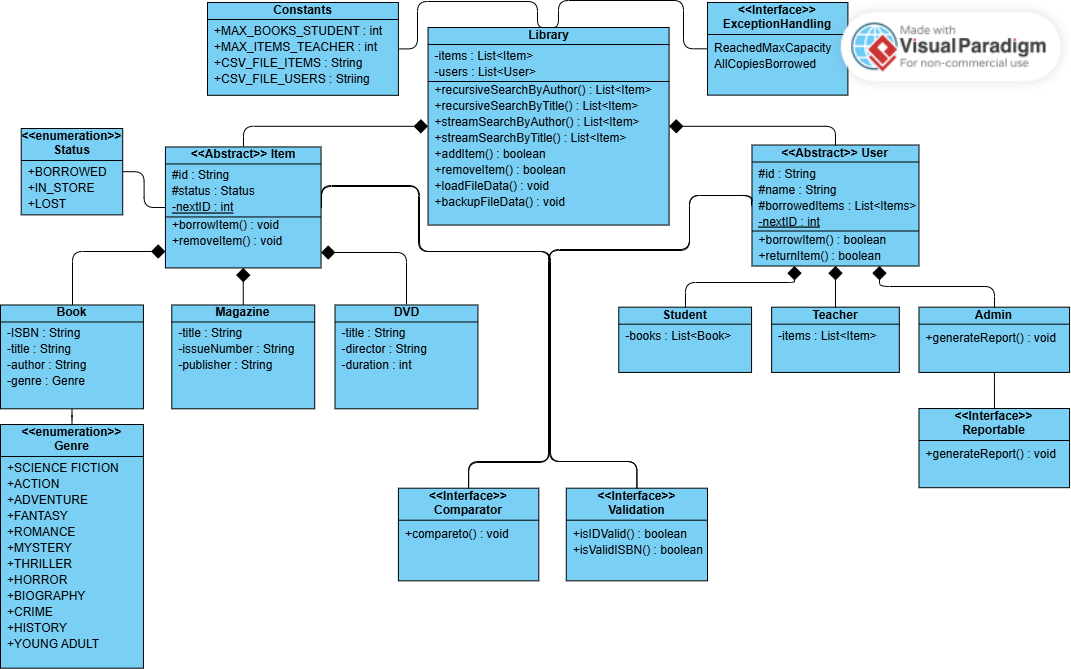
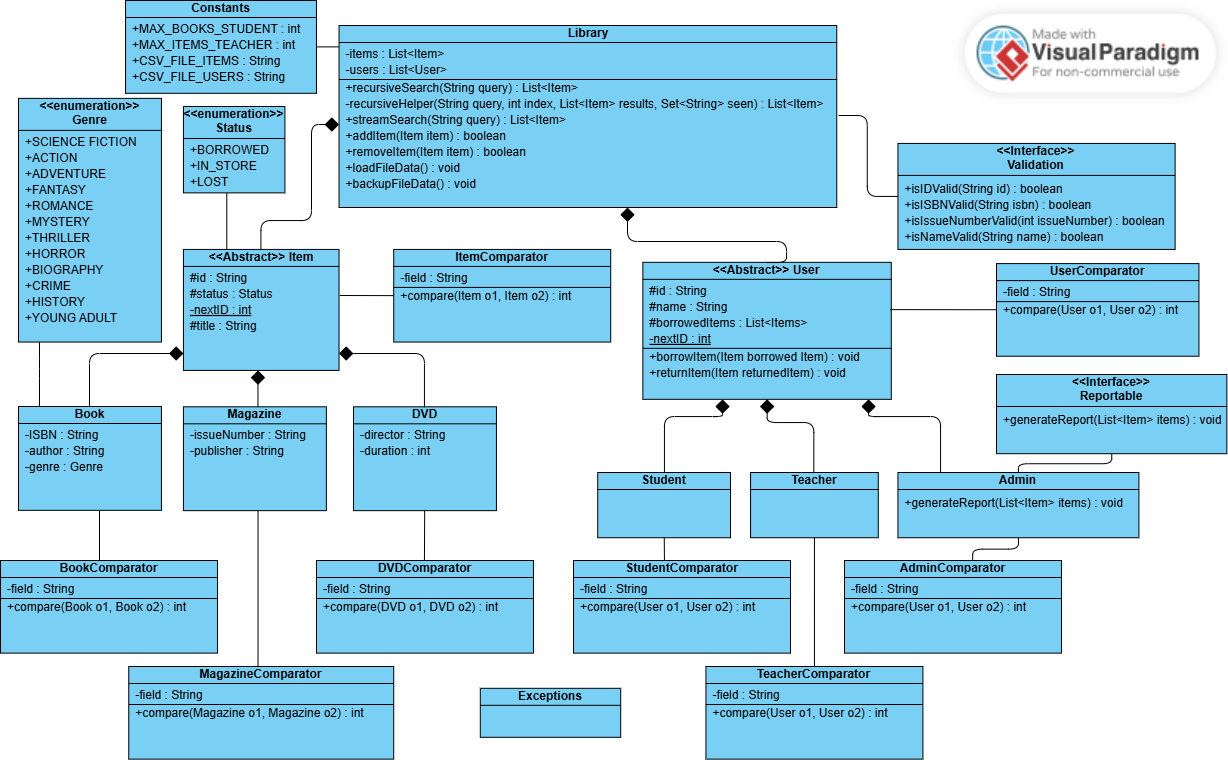
Added JUnit testing for validation, added items to items.csv, added users to users.csv, and updated diagram

diff --git a/src/test/java/ValidationTest.java b/src/test/java/ValidationTest.java
@@ -1,2 +1,87 @@
+import org.example.Validation;
+import org.junit.jupiter.api.DisplayName;
+import org.junit.jupiter.api.Test;
+
+import static org.junit.jupiter.api.Assertions.assertEquals;
+
 public class ValidationTest {
+    @Test
+    @DisplayName("{0000001} -> true")
+    void isIDValid1() {
+        String id = "0000001";
+        boolean actual = Validation.isIDValid(id);
+        boolean expected = true;
+
+        assertEquals(expected,actual);
+    }
+
+    @Test
+    @DisplayName("{null} -> false")
+    void isIDValid2() {
+        String id = null;
+        boolean actual = Validation.isIDValid(id);
+        boolean expected = false;
+
+        assertEquals(expected,actual);
+    }
+
+    @Test
+    @DisplayName("{978-0-306-40615-7} -> true")
+    void isISBNValid1() {
+        String ISBN = "978-0-306-40615-7";
+        boolean actual = Validation.isISBNValid(ISBN);
+        boolean expected = true;
+
+        assertEquals(expected,actual);
+    }
+
+    @Test
+    @DisplayName("{12345} -> false")
+    void isISBNValid2() {
+        String ISBN = "12345";
+        boolean actual = Validation.isISBNValid(ISBN);
+        boolean expected = false;
+
+        assertEquals(expected,actual);
+    }
+
+    @Test
+    @DisplayName("{5} -> true")
+    void isIssueNumberValid1() {
+        int issueNumber = 5;
+        boolean actual = Validation.isIssueNumberValid(issueNumber);
+        boolean expected = true;
+
+        assertEquals(expected,actual);
+    }
+
+    @Test
+    @DisplayName("{-1} -> false")
+    void  isIssueNumberValid2() {
+        int issueNumber = -1;
+        boolean actual = Validation.isIssueNumberValid(issueNumber);
+        boolean expected = false;
+
+        assertEquals(expected,actual);
+    }
+
+    @Test
+    @DisplayName("{Carl} -> true")
+    void  isNameValid1() {
+        String name = "Carl";
+        boolean actual = Validation.isNameValid(name);
+        boolean expected = true;
+
+        assertEquals(expected,actual);
+    }
+
+    @Test
+    @DisplayName("null -> true")
+    void  isNameValid2() {
+        String name = null;
+        boolean actual = Validation.isNameValid(name);
+        boolean expected = false;
+
+        assertEquals(expected,actual);
+    }
 }